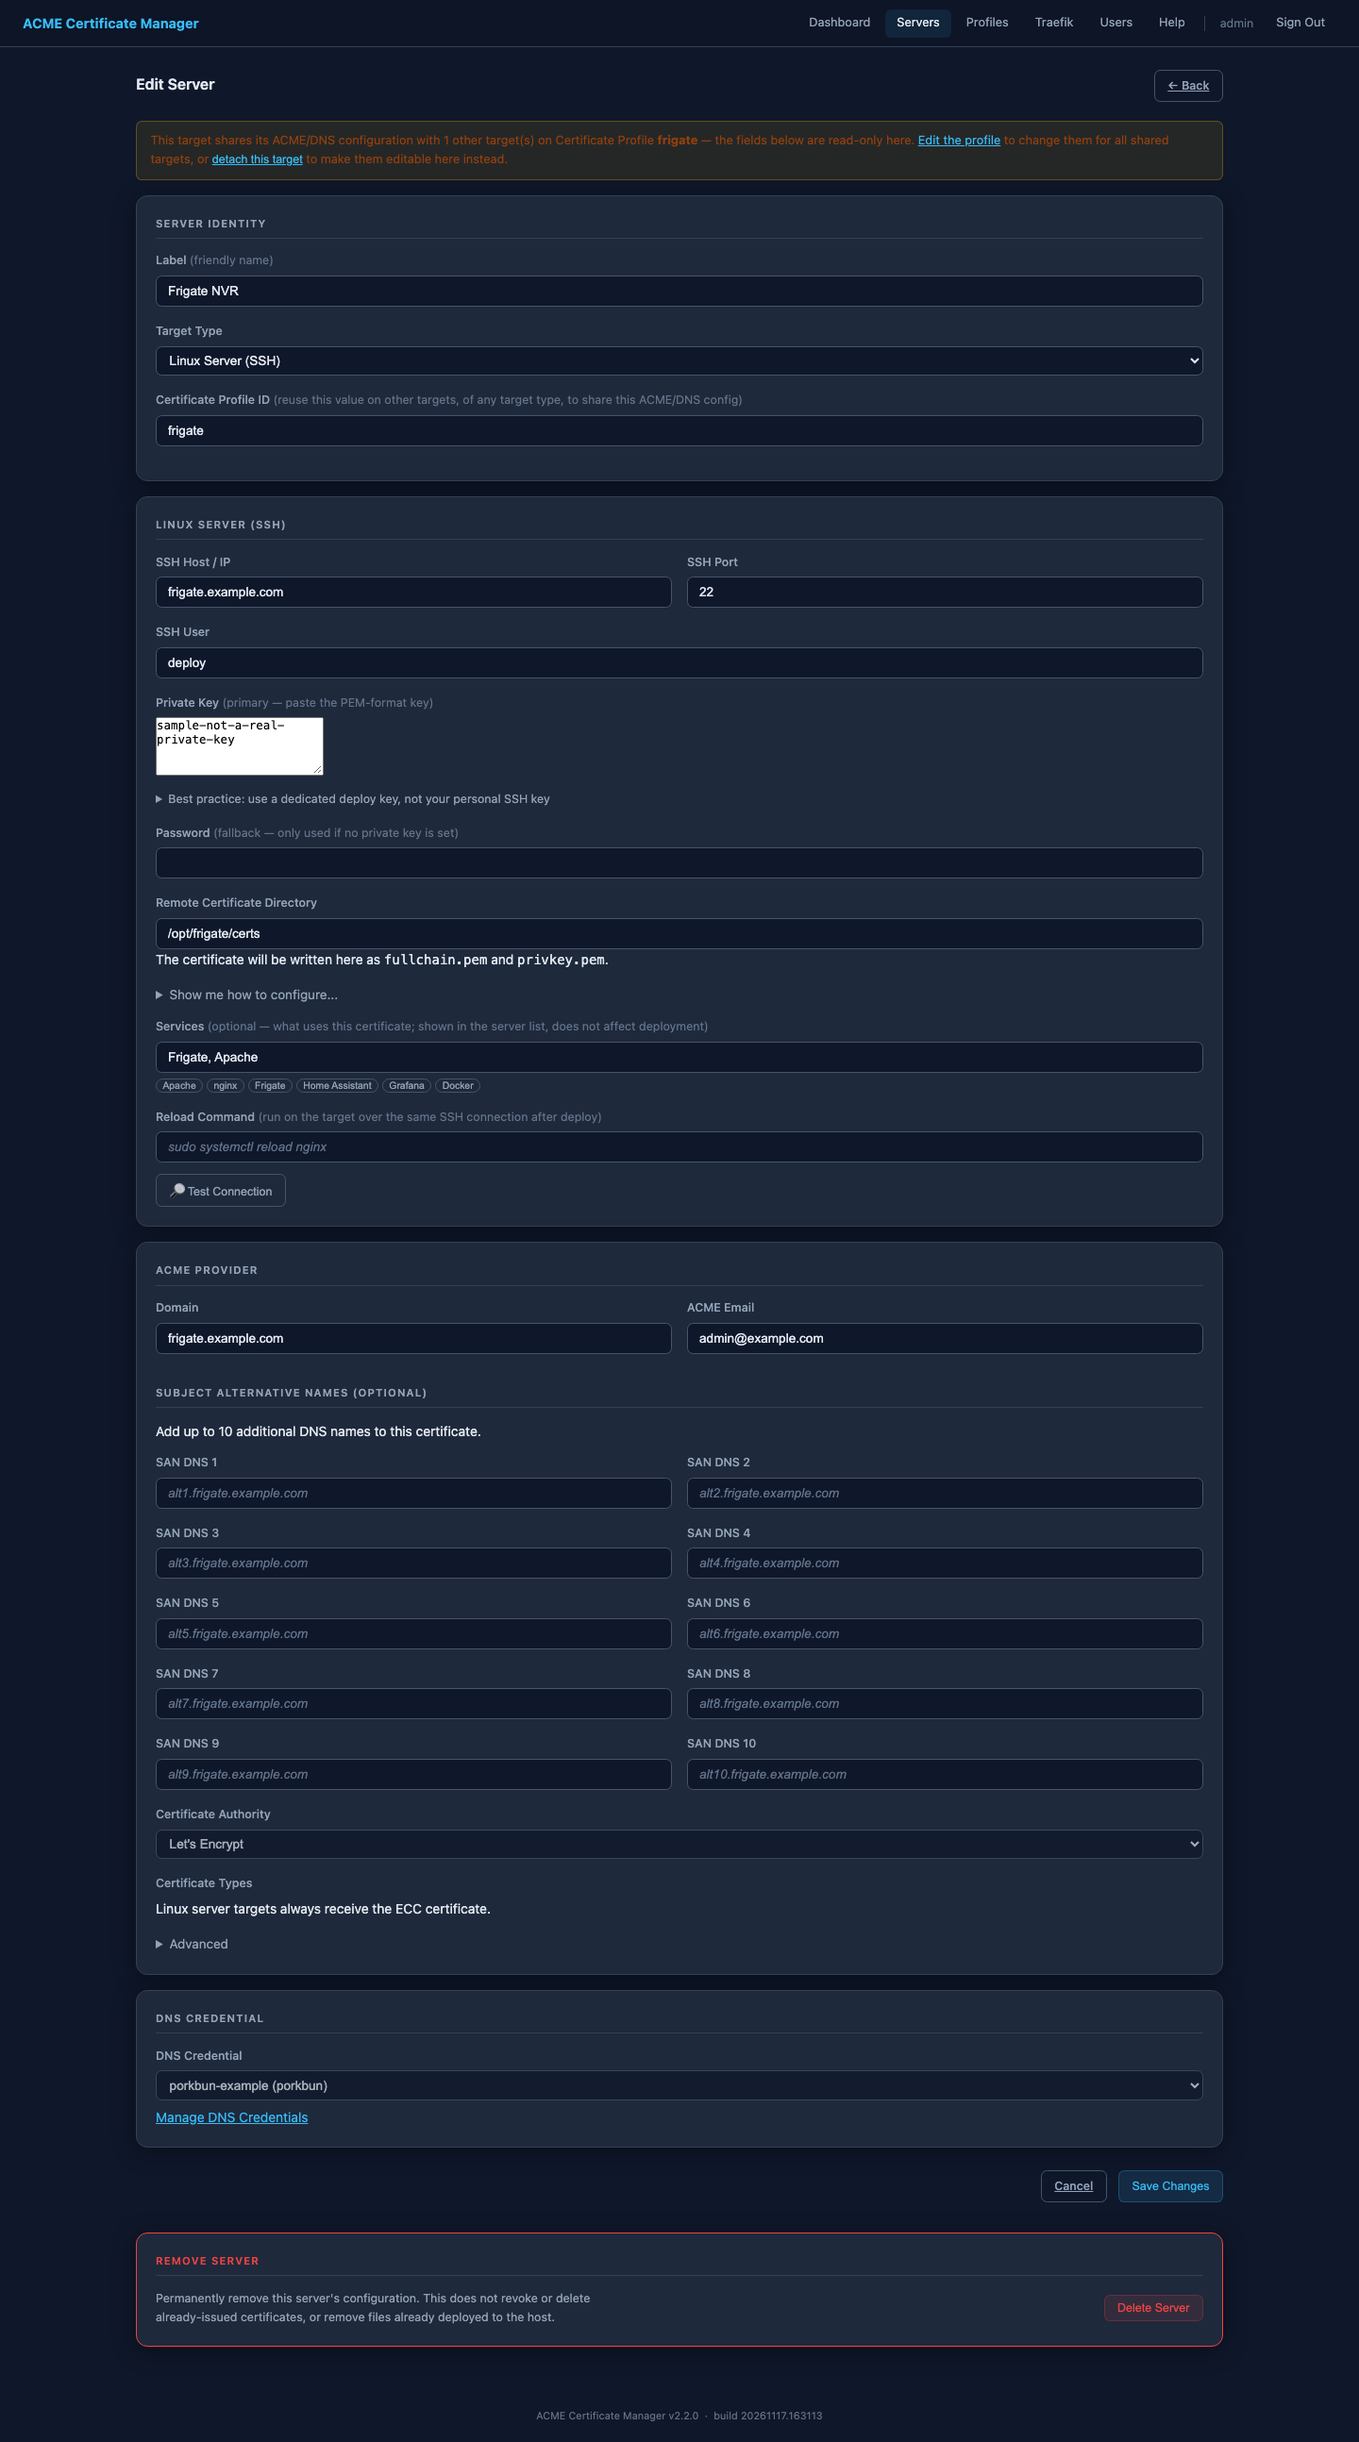
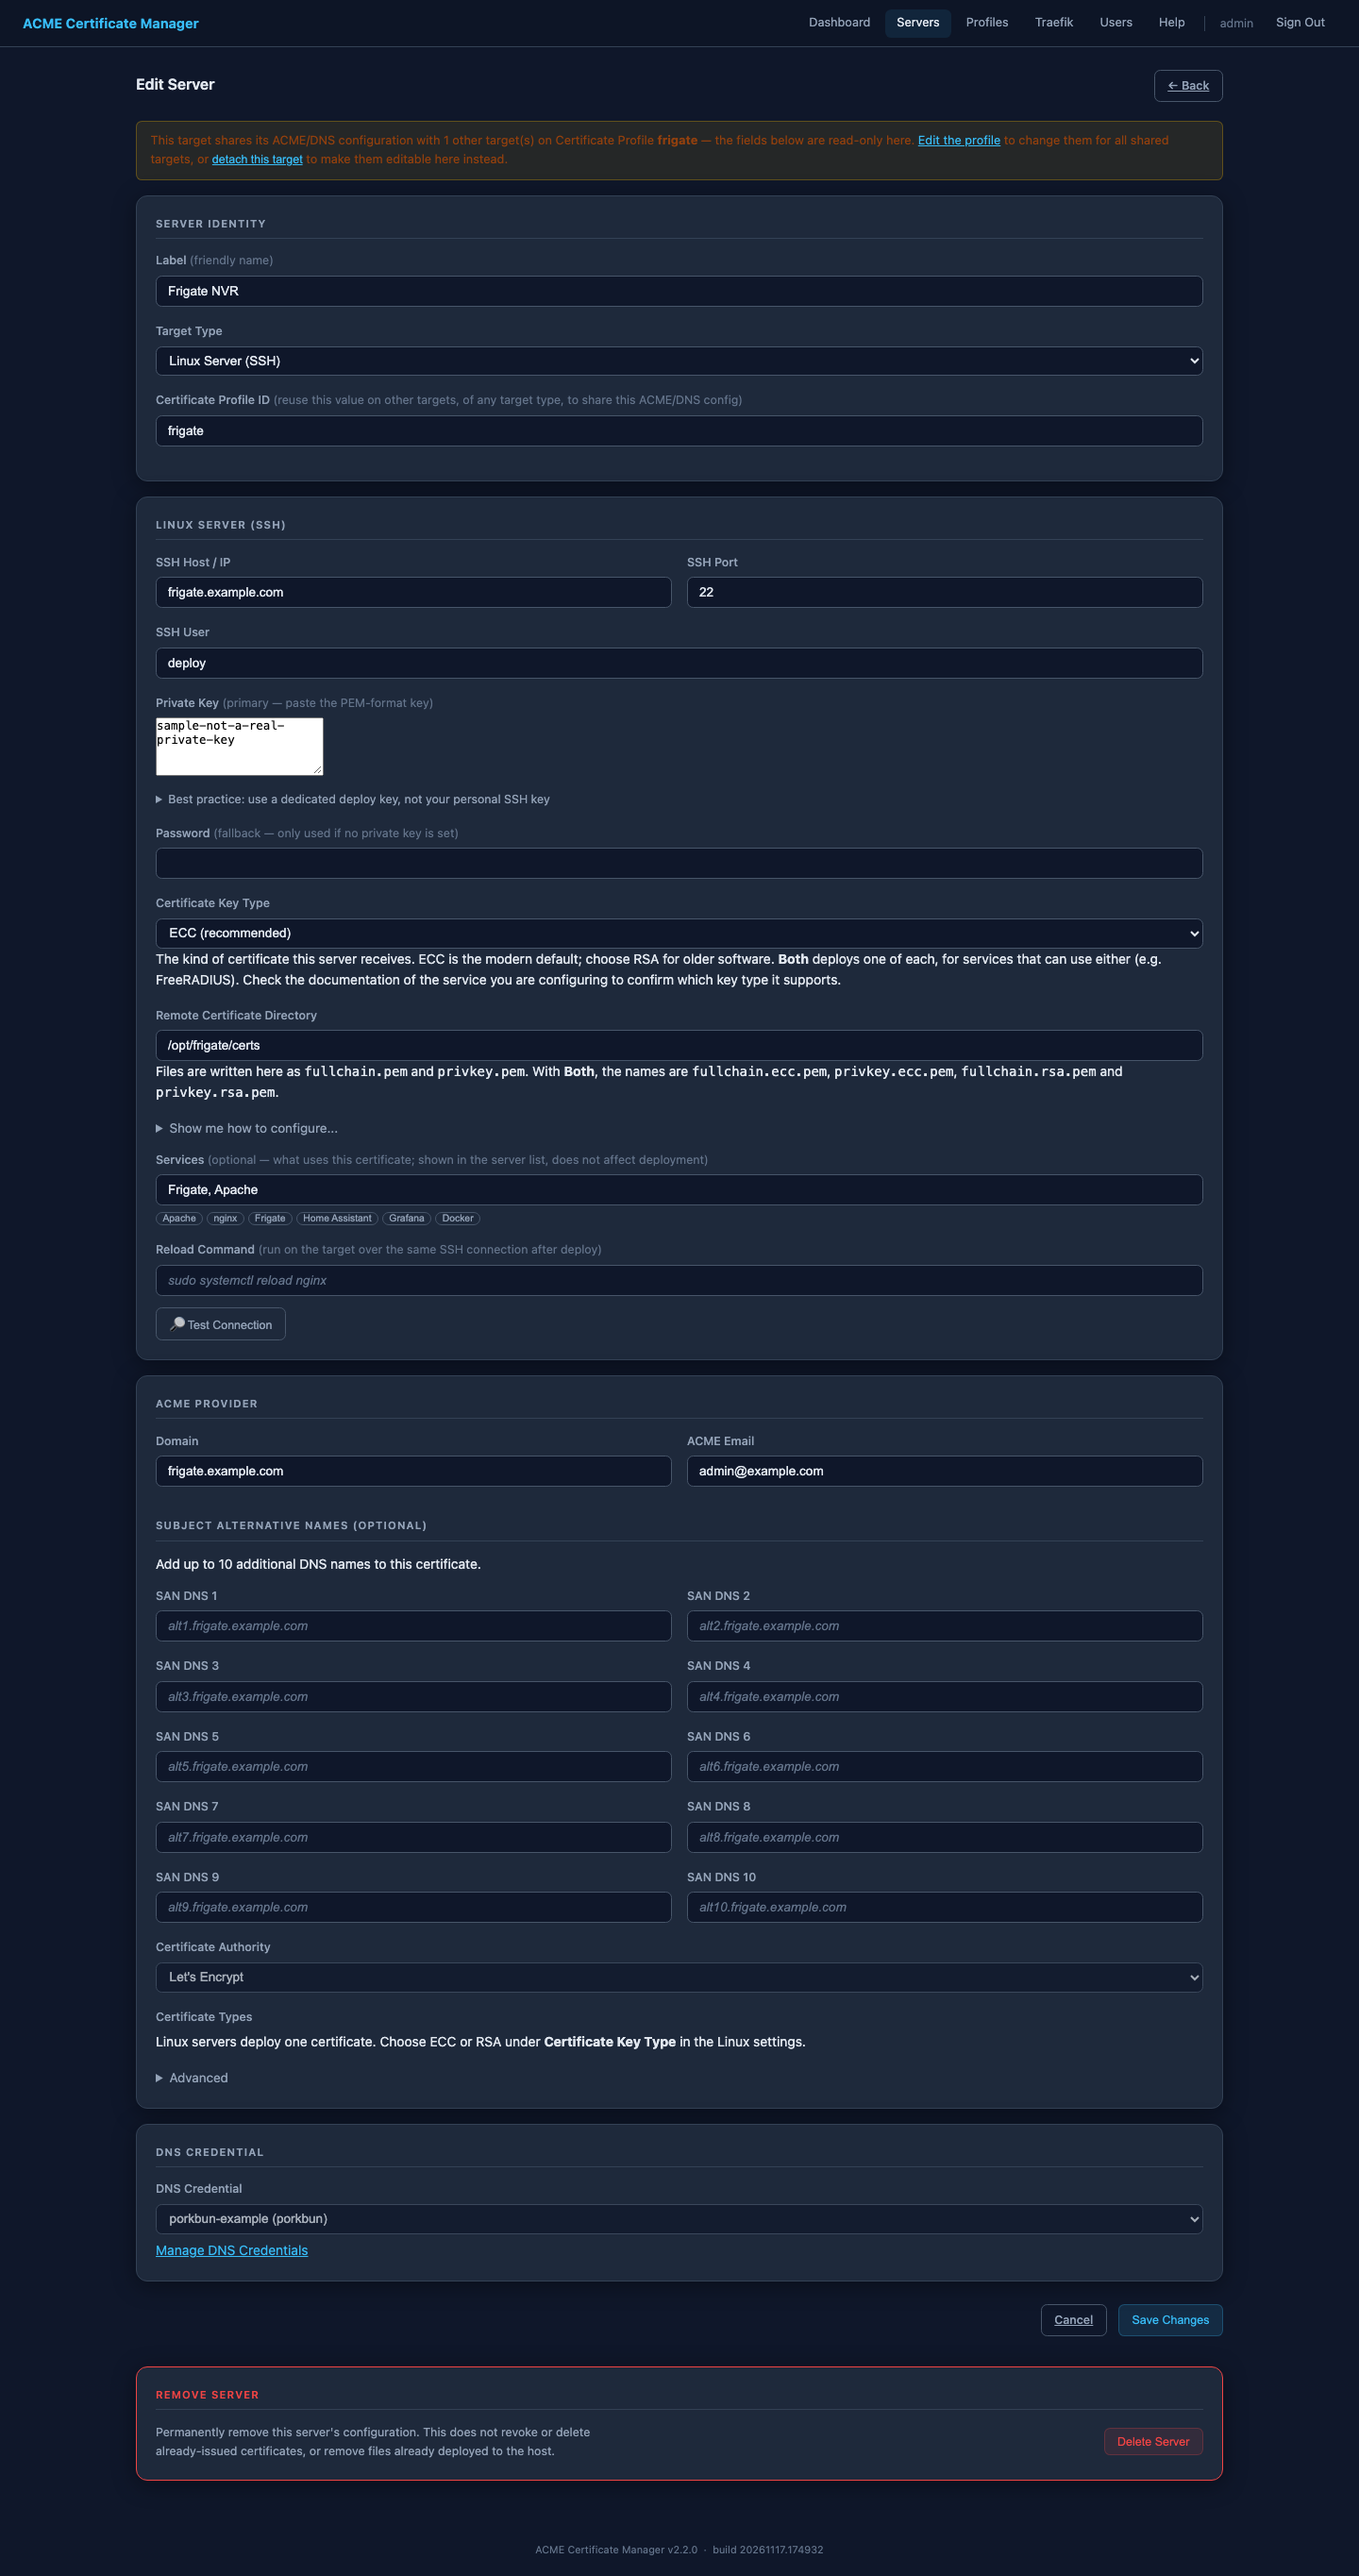
UI and documentation changes. Tell users to check the service docs for the certificate key type; refresh screenshots
- Hint on the Linux Certificate Key Type field and in docs/10
- Regenerated docs screenshots

diff --git a/scripts/status_server.py b/scripts/status_server.py
@@ -4320,7 +4320,7 @@ sudo chmod 600 /opt/acme-deploy/.ssh/authorized_keys</pre>
           <option value="rsa"{sel(fv('ssh_key_type') or 'ecc', 'rsa')}>RSA</option>
           <option value="both"{sel(fv('ssh_key_type') or 'ecc', 'both')}>Both (ECC and RSA)</option>
         </select>
-        <div class="hint">The kind of certificate this server receives. ECC is the modern default; choose RSA for older software. <strong>Both</strong> deploys one of each, for services that can use either (e.g. FreeRADIUS).</div>
+        <div class="hint">The kind of certificate this server receives. ECC is the modern default; choose RSA for older software. <strong>Both</strong> deploys one of each, for services that can use either (e.g. FreeRADIUS). Check the documentation of the service you are configuring to confirm which key type it supports.</div>
       </div>
       <div class="field">
         <label>Remote Certificate Directory</label>

diff --git a/docs/10-linux-ssh-target.md b/docs/10-linux-ssh-target.md
@@ -24,7 +24,8 @@ already there.
   as `fullchain.pem` and `privkey.pem`. With **Both**, four files are written:
   `fullchain.ecc.pem`, `privkey.ecc.pem`, `fullchain.rsa.pem` and
   `privkey.rsa.pem`, so software that can serve both (e.g. FreeRADIUS) can use
-  each. Switching an existing target between single and Both does not remove
+  each. Check the documentation of the service you are configuring to confirm
+  which key type it supports. Switching an existing target between single and Both does not remove
   files from the earlier layout.
 
 ## Adding a target
